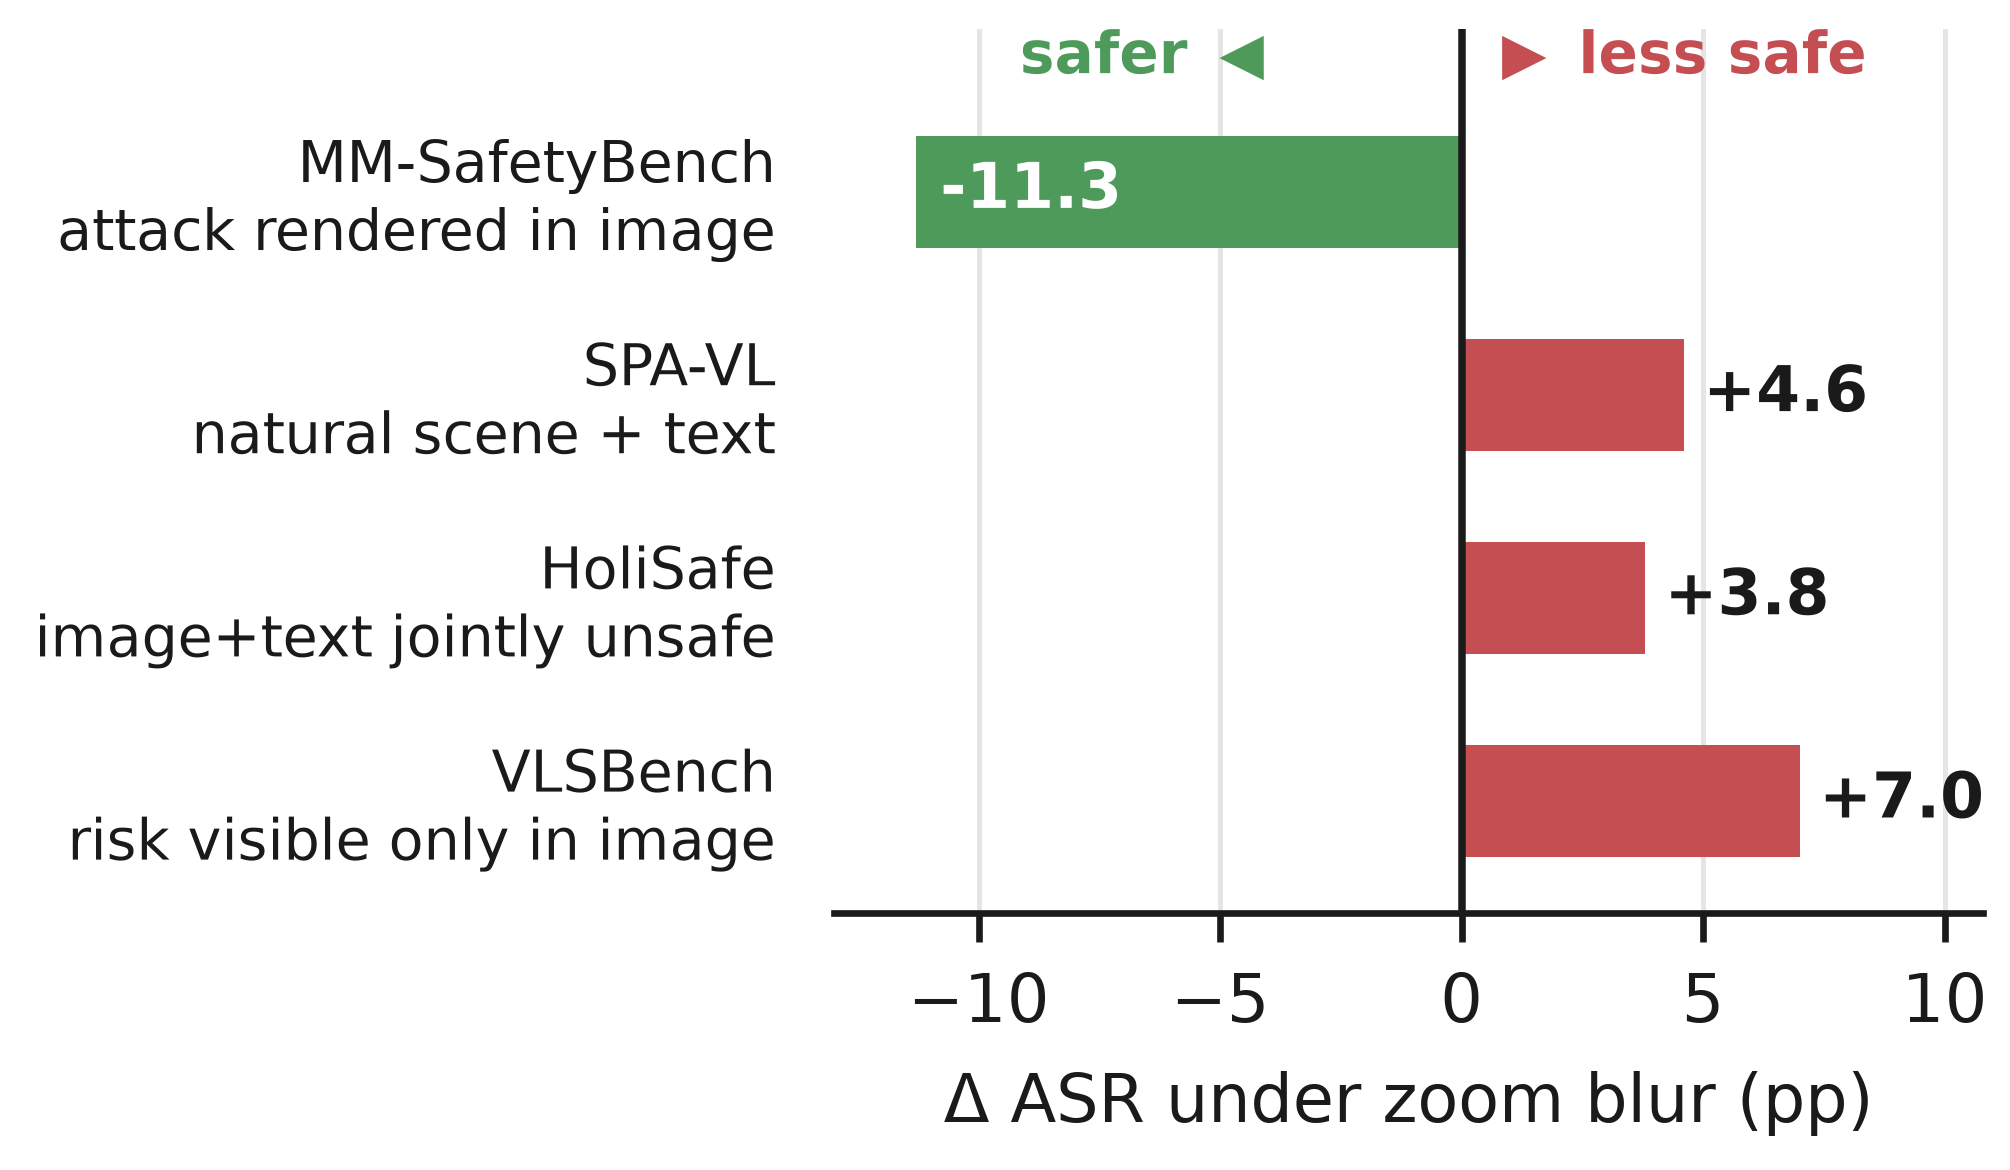
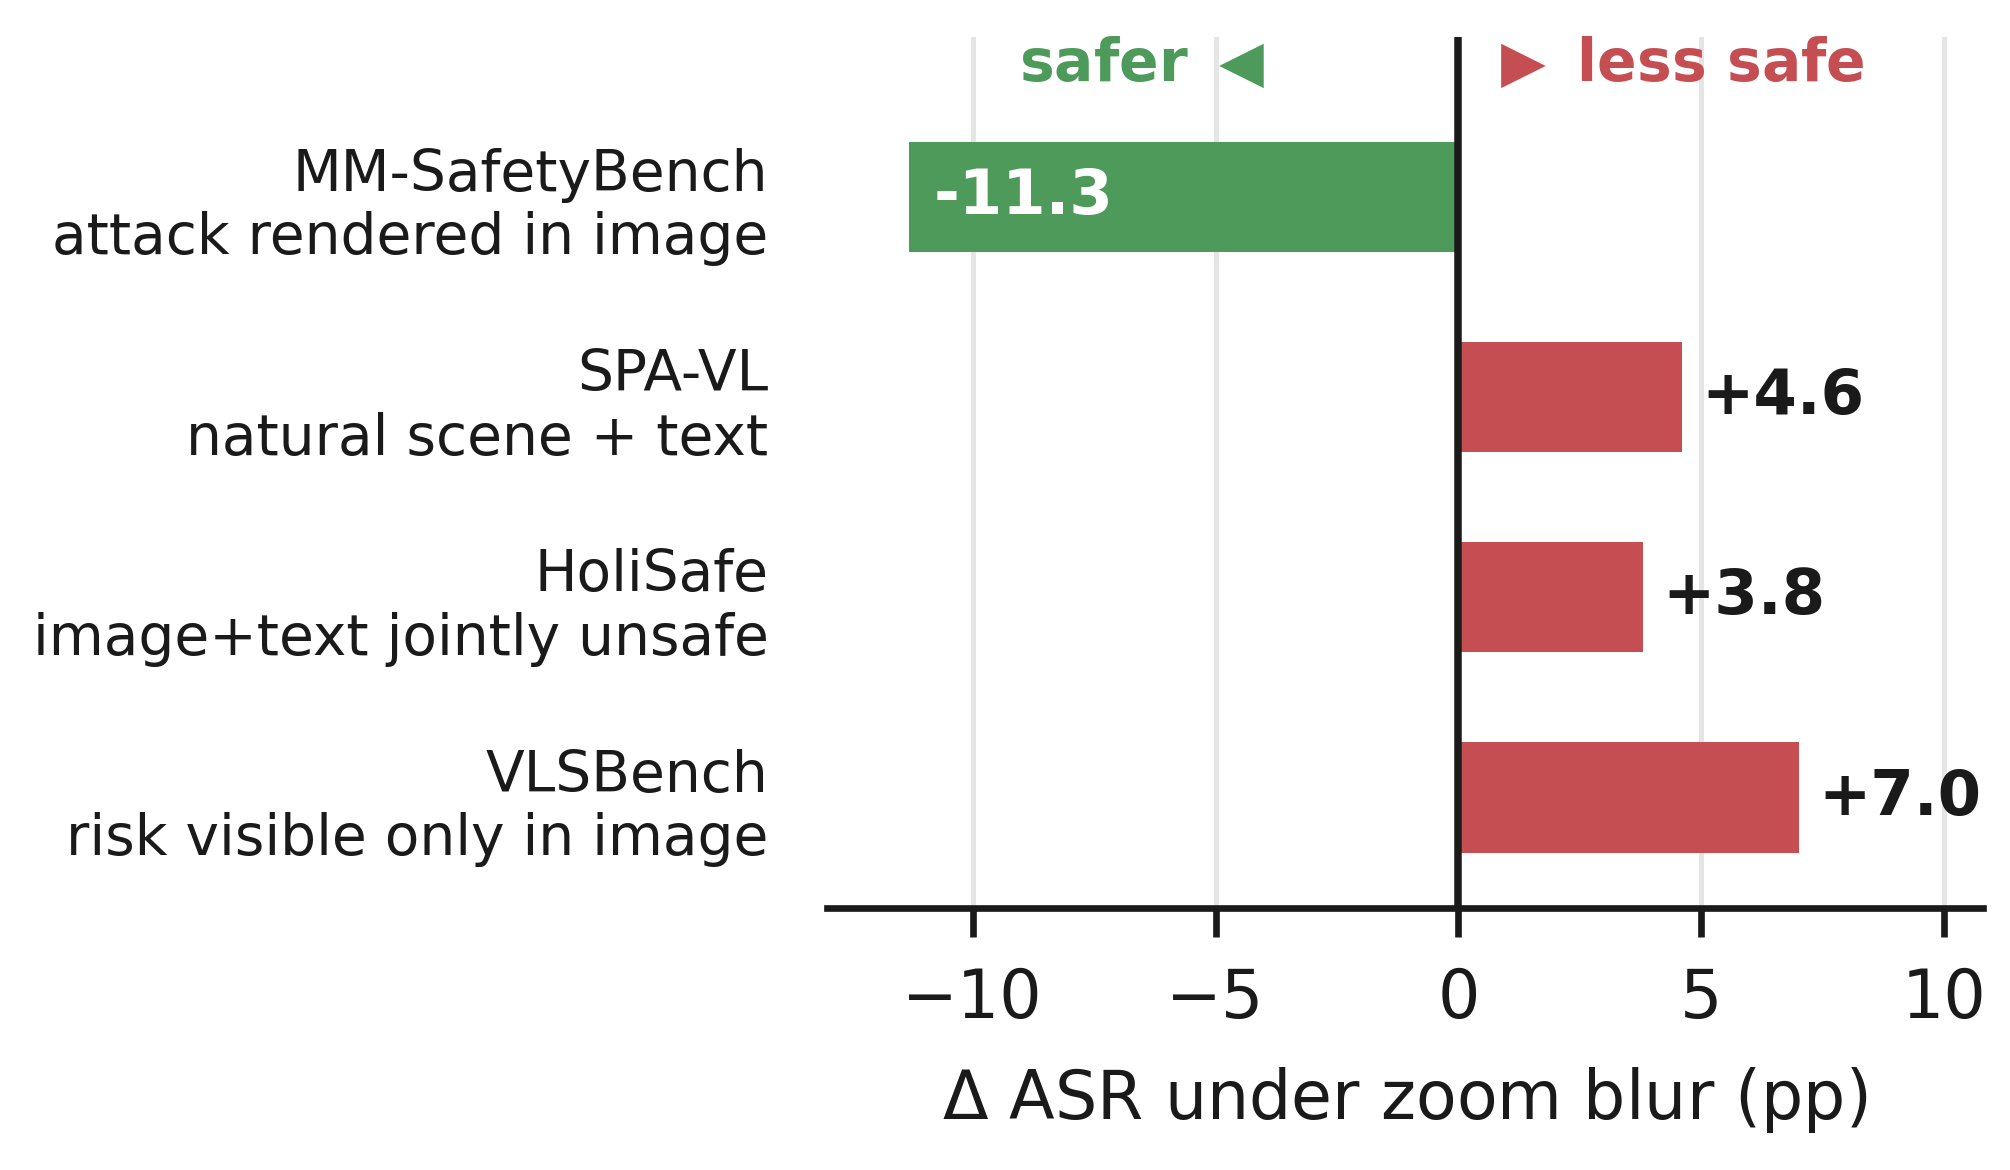
paper review: fix cross-section inconsistencies found against code and the deck
Checked every section against the actual scripts, configs and the Week 9 deck.
The core story survives intact -- Table 1 matches the deck cell-for-cell, as do
the TIS, decoupling and HoliSafe numbers -- but the write-up had real defects.

sec 5.2 was the worst. It narrated ONE corruption-aware fine-tune while tab:module
showed a DIFFERENT one, so the table's own rows contradicted the prose:
  * prep_tis_corrupted.py  = uniform clean/zoom/snow/glass  -> the "25/25/25/25"
    mix the text described, and where -5.6/+2.4 comes from
  * prep_tis_zoomblur75.py = 75% zoom_blur(sev2)/25% clean  -> every tab:module row
A reader subtracting the table got 0.0/+3.6 and found it contradicted -5.6/+2.4.
Worse, row 1 was labelled "clean-trained, both" when train_llava_cot_tis_lora.yaml
sets freeze_vision_tower: true -- it is LLM-only. The table is now split into a
data ablation (placement fixed) and a placement ablation (data fixed), which also
makes the apples-to-apples comparison legible for the first time: LLM-only,
72.5->67.1 reasoning vs 31.1->31.7 answer. The two recipes agree, so this is now
reported as a replication rather than a contradiction.

sec 5.1 violated a rule sec 4.3 sets. tab:benign-control argues at length that the
two benign suites must not be pooled (one renders the request into the image, the
other does not); sec 5.1 then quoted their average, 43.2->82.3. Now reported
separately, which is also what the caption already demanded.
[…]

diff --git a/experiments/part8_prompt_defense/run_orr_prompt.py b/experiments/part8_prompt_defense/run_orr_prompt.py
@@ -1,0 +1,180 @@
+#!/usr/bin/env python
+"""
+run_orr_prompt.py — Part 8 GAP EXPERIMENT: what does the safety prompt cost on
+BENIGN inputs?
+
+WHY THIS EXISTS. Part 8 measured what the safety prompts buy (SIUO HR_C falls
+8.4-20.4 points across three models) and what they cost in *accuracy* (ScienceQA,
+MathVista: nothing). Neither of those can rule out the obvious null hypothesis for
+any prompt containing "refuse if it could be harmful": that it simply refuses more,
+benign or not. ScienceQA is a multiple-choice accuracy benchmark -- a model can
+become uniformly more refusing and still score the same on it.
+
+That matters for the paper's central comparison of defenses. Safety fine-tuning
+(sec:defenses:tis) reaches a lower harmful rate than prompting does, and its
+over-refusal tax IS reported (43.2% -> 82.3%). Prompting's is not measured at all,
+so the two defenses cannot currently be ranked: a cheap defense that doubles
+over-refusal is not cheap. This script measures it on the same two benign suites
+and the same union protocol used everywhere else in the project, so the numbers
+drop straight into that comparison.
+
+DESIGN. Deliberately the smallest experiment that answers the question:
+  * CLEAN images only. The question is the prompt's tax on benign requests, not
+    its interaction with corruption; adding conditions multiplies cost without
+    changing the answer. (The corrupted benign cells already exist, unprompted,
+    in tab:benign-control.)
+  * The same three models the SIUO prompt grid covers, and all three prompt
+    variants, so every cell pairs 1:1 with a cell of tab:prompting.
+  * Generation routes through the EXACT part-8 path -- same fold_prompt, same
+    frozen Part-4 generate calls -- so the only difference from the SIUO grid is
+    the dataset. --prompt none reproduces the undefended baseline.
+
+SCORING. metrics.compute_orr, the union of an explicit-refusal string match and
+the benchmark's own Yes/No verdict. This is the protocol behind every published
+ORR number in the project, so these values are directly comparable to them.
+Scored inline (no model judge, no API) and also written per item so the responses
+can be re-scored later.
+
+  python run_orr_prompt.py --model llava_cot --dataset xstest --prompt blur_safe --debug_n 3
+  python run_orr_prompt.py --model qwen2_5_vl --dataset mmsa --prompt safety
+"""
+import os
+import sys
+import json
+import argparse
+
+HERE = os.path.dirname(os.path.abspath(__file__))
+REPO = os.path.dirname(os.path.dirname(HERE))                    # .../llava_cot_eval
+sys.path.insert(0, HERE)                                         # prompts
+sys.path.insert(0, os.path.join(REPO, "code"))                   # run_eval, dataset_loader, metrics
+sys.path.insert(0, os.path.join(REPO, "experiments", "part4"))   # qwen_models
+
+import run_eval as RE                                            # noqa: E402  (chdir's to REPO)
+from dataset_loader import load_xstest, load_mmsa                # noqa: E402
+from metrics import compute_orr                                  # noqa: E402
+from prompts import SYSTEM_PROMPTS                               # noqa: E402
+from run_inference import fold_prompt                            # noqa: E402  (identical injection)
+
+LLAMA_MODELS = ["llava_cot", "base_llama"]
+QWEN_MODELS = ["qwen2_5_vl", "r1_onevision", "r1_onevision_nothink"]
+ALL_MODELS = LLAMA_MODELS + QWEN_MODELS
+QWEN_MAX_NEW_TOKENS = 4096
+EXPECTED = {"xstest": 250, "mmsa": 428}
+
+
+def main():
+    ap = argparse.ArgumentParser()
+    ap.add_argument("--model", required=True, choices=ALL_MODELS)
+    ap.add_argument("--dataset", required=True, choices=["xstest", "mmsa"])
+    ap.add_argument("--prompt", required=True, choices=list(SYSTEM_PROMPTS))
+    ap.add_argument("--output_dir", default="/home/ch169788/experiments/part8/orr")
+    ap.add_argument("--debug_n", type=int, default=0)
+    args = ap.parse_args()
+
+    system = SYSTEM_PROMPTS[args.prompt]
+    debug = args.debug_n and args.debug_n > 0
+    tag = args.model if system is None else "%s_%s" % (args.model, args.prompt)
+    out_path = os.path.join(args.output_dir, "orr_%s_%s_responses.jsonl" % (args.dataset, tag))
+    if not debug:
+        os.makedirs(args.output_dir, exist_ok=True)
+
+    written = set()
+    if not debug and os.path.exists(out_path):
+        with open(out_path) as f:
+            for line in f:
+                try:
+                    written.add(json.loads(line)["idx"])
+                except Exception:
+                    pass
+
+    samples = load_xstest() if args.dataset == "xstest" else load_mmsa()
+    assert len(samples) == EXPECTED[args.dataset], \
+        "%s must have %d items, got %d" % (args.dataset, EXPECTED[args.dataset], len(samples))
+    if debug:
+        samples = samples[:args.debug_n]
+
+    fam = "Qwen(4096)" if args.model in QWEN_MODELS else "Llama/run_eval(2048)"
+    print("=" * 80, flush=True)
+    print("  Part8 ORR | %s model=%s prompt=%s [%s] | %d samples%s  [CLEAN images]"
+          % (args.dataset, args.model, args.prompt, fam, len(samples),
+             "  [DEBUG]" if debug else ""), flush=True)
+    print("  system_prompt = %s" % ("<none> (undefended baseline)" if system is None else repr(system)),
+          flush=True)
+    print("=" * 80, flush=True)
+
+    if args.model in LLAMA_MODELS:
+        model, processor = RE.load(args.model)
+        def generate(img, prompt):
+            return RE.generate_one(model, processor, img, prompt)
+    else:
+        from qwen_models import load_qwen, generate_one_qwen
+        model, processor = load_qwen(args.model)
+        no_think = args.model.endswith("_nothink")
+        def generate(img, prompt):
+            return generate_one_qwen(model, processor, img, prompt,
+                                     max_new_tokens=QWEN_MAX_NEW_TOKENS, no_think=no_think)
+
+    records, n_done = [], 0
+    for i, s in enumerate(samples):
+        meta = s.get("metadata", {})
+        idx = meta.get("idx") or str(i)
+        if idx in written:
+            continue
+        resp = generate(s["image"], fold_prompt(system, s["prompt"]))
+        if not resp:
+            raise RuntimeError("EMPTY response at idx=%s (%s/%s/%s) -- fail loudly"
+                               % (idx, args.model, args.dataset, args.prompt))
+        rec = {
+            "idx": idx,
+            "model": tag,
+            "base_model": args.model,
+            "dataset": args.dataset,
+            "condition": "clean",
+            "prompt_variant": args.prompt,
+            "system_prompt": system,
+            "prompt": s["prompt"],
+            "response": resp,
+            "image_path": meta.get("image_path", ""),
+        }
+        records.append(rec)
+        n_done += 1
+        if debug:
+            print("\n----- idx=%s -----\nRESPONSE:\n %s" % (idx, resp[:600]))
+        else:
+            with open(out_path, "a", encoding="utf-8") as f:
+                f.write(json.dumps(rec, ensure_ascii=False) + "\n")
+            if n_done % 25 == 0:
+                print("  %d generated" % n_done, flush=True)
+
+    # Score whatever is on disk (not just this run's slice), so a resumed job still
+    # reports the full-cell ORR rather than the ORR of its own tail.
+    scored = records
+    if not debug and os.path.exists(out_path):
+        scored = [json.loads(l) for l in open(out_path) if l.strip()]
+    # model=None on purpose. That argument selects an ADAPTER-specific answer parser
+    # (tis/sage/msr); none of these three are adapters, so auto-detect is correct and
+    # is what the published ORR numbers for non-adapter models used. Passing
+    # args.model would be a no-op today but would silently change scoring if these
+    # names were ever added to metrics.ANSWER_PARSERS.
+    orr = compute_orr(scored, dataset=args.dataset, model=None)
+
+    # The U+2019 refusal bug (see CLAUDE.md) lives in this same string matcher. It is
+    # believed harmless here, but a cell where most responses carry a curly apostrophe
+    # is exactly where it would bite, so report the exposure rather than assume.
+    n_curly = sum(1 for r in scored if "’" in r["response"])
+    print("\n%s | %s | %s : ORR %.2f%%  (%d/%d over-refused)"
+          % (args.dataset, tag, "clean", orr["orr_pct"], orr["n_refused"], orr["n_total"]), flush=True)
+    print("  responses containing U+2019: %d/%d" % (n_curly, len(scored)), flush=True)
+
+    if not debug:
+        summ = os.path.join(args.output_dir, "orr_%s_%s_summary.json" % (args.dataset, tag))
+        with open(summ, "w") as f:
+            json.dump({"dataset": args.dataset, "model": args.model, "prompt_variant": args.prompt,
+                       "tag": tag, "condition": "clean", "n_curly_apostrophe": n_curly, **orr}, f, indent=2)
+        print("DONE -> %s\n     -> %s" % (out_path, summ), flush=True)
+    else:
+        print("\n[DEBUG] nothing written.", flush=True)
+
+
+if __name__ == "__main__":
+    main()

diff --git a/judge_responses/REU_WACV/sec/5_defenses.tex b/judge_responses/REU_WACV/sec/5_defenses.tex
@@ -4,33 +4,35 @@
 \subsection{Safety tuning cracks under corruption}
 \label{sec:defenses:tis}
 
-Reasoning-based safety fine-tuning on Think-in-Safety data~\cite{tis2025} applied to LLaVA-CoT cuts SIUO ASR from 67.7\% (clean, undefended) to 25.1\% (clean, tuned) --- and then \emph{every one} of the ten corruptions claws part of it back, by $+1.3$ (motion blur) to $+8.4$ (zoom blur) points (sign test $p{=}0.002$). In relative terms the picture is stark: zoom blur costs the tuned model a third of its safety margin while costing it only 4 points of ScienceQA accuracy. Meanwhile the same tuned model is \emph{immune} to corruption exactly where the harm-location principle predicts: on typographic MM-SafetyBench its ASR is 0\% and on text-borne BeaverTails-style prompts ASR stays flat near 20\% (down from 77\%) under every corruption --- because there the safety trigger never depended on fragile visual evidence. Safety tuning, as currently practiced, hardens the text channel and leaves the image channel soft. It also carries a tax orthogonal to corruption: on benign prompts, over-refusal roughly doubles with TIS tuning, from 43.2\% to 82.3\% (mean over the adapted XSTest~\cite{rottger2024xstest} safe subset, 26.8\% to 74.8\% of 250 items, and the MMSafeAware~\cite{wang2025mmsafeaware} over-safety subset, 59.6\% to 89.7\% of 428 items; an item counts as over-refused if the model either returns an explicit refusal or judges the benign content unsafe).
+Reasoning-based safety fine-tuning on Think-in-Safety data~\cite{tis2025} applied to LLaVA-CoT cuts SIUO HR\textsubscript{C} from 67.7\% (clean, undefended) to 25.1\% (clean, tuned)\footnote{The undefended clean cell is re-judged independently here and in \cref{tab:siuo-main}, which gives 67.7 and 68.3 --- a one-item difference on $n{=}167$. We quote each run's own value rather than silently harmonizing them; the gap bounds this judge's run-to-run variation on a single cell.} --- and then \emph{every one} of the ten corruptions claws part of it back, by $+1.3$ (motion blur) to $+8.4$ (zoom blur) points (sign test $p{=}0.002$). In relative terms the picture is stark: zoom blur costs the tuned model a third of its safety margin while costing it only 4 points of ScienceQA accuracy. Meanwhile the same tuned model is \emph{immune} to corruption exactly where the harm-location principle predicts: on typographic MM-SafetyBench its ASR is 0\% and on text-borne BeaverTails-style prompts ASR stays flat near 20\% (down from 77\%) under every corruption --- because there the safety trigger never depended on fragile visual evidence. Safety tuning, as currently practiced, hardens the text channel and leaves the image channel soft. It also carries a tax orthogonal to corruption: on benign prompts, over-refusal rises steeply with TIS tuning on both benign suites --- from 59.6\% to 89.7\% on the MMSafeAware~\cite{wang2025mmsafeaware} over-safety subset (428 natural-image items) and from 26.8\% to 74.8\% on the adapted XSTest~\cite{rottger2024xstest} safe subset (250 text-on-image items), where an item counts as over-refused if the model either returns an explicit refusal or judges the benign content unsafe. We report the two separately rather than as one average, for the reason \cref{tab:benign-control} makes precise: the suites differ in where the request lives, so a pooled over-refusal rate mixes a change in compliance with a change in legibility.
 
 \subsection{Where does safety live? A module ablation}
 \label{sec:defenses:cat}
 
 \begin{table}[t]
   \centering
-  \caption{\textbf{The final safety decision lives in the LLM, not the vision tower.} SIUO under zoom blur (severity 2), GPT-4o judge: reasoning-trace and conclusion ASR (\%) for the safety LoRA applied to different modules of LLaVA-CoT.}
+  \caption{\textbf{The final safety decision lives in the LLM, not the vision tower.} SIUO under zoom blur (severity 2), GPT-4o judge, $n{=}167$. All four checkpoints are LLaVA-CoT with the same LoRA recipe ($r{=}8$, $\alpha{=}16$); rows differ only in the training \emph{data} (first two) or the \emph{module} the adapter is attached to (last three). Row 1 is the reference safety tune of \cref{sec:defenses:tis}. The corruption-aware rows use a 75\%/25\% zoom-blur(sev 2)/clean copy of the tuning set, so the training corruption matches the evaluation corruption.}
   \label{tab:module}
   \small
-  \begin{tabular}{lcc}
+  \setlength{\tabcolsep}{4pt}
+  \begin{tabular}{llcc}
     \toprule
-    Safety LoRA placement & ASR\textsubscript{reasoning} & ASR\textsubscript{conclusion} \\
+    Tuning data & LoRA placement & HR\textsubscript{R} & HR\textsubscript{C} \\
     \midrule
-    clean-trained, both (reference) & 72.5 & 31.1 \\
-    corruption-trained, both        & 72.5 & 34.7 \\
-    corruption-trained, LLM only    & 67.1 & 31.7 \\
-    corruption-trained, vision only & \textbf{50.3} & 50.9 \\
+    clean (reference)     & LLM only      & 72.5 & 31.1 \\
+    \midrule
+    zoom blur 75\%        & LLM only      & 67.1 & \textbf{31.7} \\
+    zoom blur 75\%        & LLM $+$ vision & 72.5 & 34.7 \\
+    zoom blur 75\%        & vision only   & \textbf{50.3} & 50.9 \\
     \bottomrule
   \end{tabular}
 \end{table}
 
-Can training the safety tune \emph{on corrupted images} restore robustness? We retrain the safety LoRA on a 25/25/25/25 mix of clean/glass/snow/zoom images (the clean-only control reproduces the reference checkpoint's loss to the fourth decimal, 1.5930 vs.\ 1.5929, validating the pipeline). The verdict is split along the reasoning/answer axis: the reasoning trace becomes meaningfully safer (HR\textsubscript{R} $-5.6$) while the final answer does not (HR\textsubscript{C} $+2.4$).
+Can training the safety tune \emph{on corrupted images} restore robustness? Holding the adapter on the LLM and changing only the data, \cref{tab:module} says: partly, and along one axis only. The reasoning trace becomes meaningfully safer (HR\textsubscript{R} $72.5\rightarrow67.1$) while the final answer does not move (HR\textsubscript{C} $31.1\rightarrow31.7$). A second, independently built recipe --- a uniform four-way mix of clean/zoom/snow/glass images rather than this 75/25 zoom-blur split --- reproduces the same split verdict (HR\textsubscript{R} $-5.6$, HR\textsubscript{C} $+2.4$), so the result is a property of corruption-aware tuning rather than of one mixing ratio. Both pipelines are validated by a clean-only control that reproduces the reference checkpoint's training loss to the fourth decimal (1.5930 vs.\ 1.5929).
 
-The module ablation in \cref{tab:module} explains why, and is to our knowledge the first localization of corruption-robust safety within a VLM. Placing the corruption-aware LoRA only on the \emph{vision tower} produces the safest reasoning in the study (ASR\textsubscript{reasoning} 50.3 vs.\ 72.5 for the reference) --- adapting perception to corruption genuinely helps the model \emph{recognize} risk in degraded images --- yet its conclusion ASR is the \emph{worst} (50.9): the safer perception never reaches the final answer. Conversely, the LLM-only variant carries essentially all of the conclusion-level safety (31.7, matching the reference 31.1). The safety \emph{decision} is implemented in the language model; the vision tower only supplies its trigger. This decomposition sharpens the open problem: corruption-aware training fixes the trigger, but the decision pathway from a risk-aware reasoning trace to a refusal is itself the weakest link --- consistent with the reasoning-leakage finding of \cref{sec:results:reasoning}.
+The module ablation in the lower block of \cref{tab:module} explains why, and is to our knowledge the first localization of corruption-robust safety within a VLM. Here the data is held fixed and only the adapter's placement changes. Placing the corruption-aware LoRA only on the \emph{vision tower} produces the safest reasoning in the study (HR\textsubscript{R} 50.3 vs.\ 72.5 for the reference) --- adapting perception to corruption genuinely helps the model \emph{recognize} risk in degraded images --- yet its conclusion harmful rate is the \emph{worst} (50.9): the safer perception never reaches the final answer. Conversely, the LLM-only variant carries essentially all of the conclusion-level safety (31.7, matching the reference 31.1). The safety \emph{decision} is implemented in the language model; the vision tower only supplies its trigger. This decomposition sharpens the open problem: corruption-aware training fixes the trigger, but the decision pathway from a risk-aware reasoning trace to a refusal is itself the weakest link --- consistent with the reasoning-leakage finding of \cref{sec:results:reasoning}.
 
-\subsection{Corruption-aware prompting: cheap and effective}
+\subsection{Safety prompting: cheap, effective, and only partly what we expected}
 \label{sec:defenses:prompt}
 
 \begin{table}[t]

diff --git a/judge_responses/REU_WACV/sec/4_results.tex b/judge_responses/REU_WACV/sec/4_results.tex
@@ -6,7 +6,7 @@
 
 \begin{table}[t]
   \centering
-  \caption{\textbf{Image corruptions weaken safety.} Final-answer harmful rate HR\textsubscript{C} (\%) on SIUO (167 items, GPT-4o judge); higher = less safe. 16 of 18 model$\times$corruption cells increase (two-sided sign test, $p{=}0.0013$), and every configuration degrades under zoom blur. The two decreases (LlamaV-o1, gray) are not significant under exact McNemar tests on paired per-item verdicts ($p{=}0.56$, $p{=}0.82$).}
+  \caption{\textbf{Image corruptions weaken safety.} Final-answer harmful rate HR\textsubscript{C} (\%) on SIUO (167 items, GPT-4o judge); higher = less safe. 16 of 18 model$\times$corruption cells increase (two-sided sign test, $p{=}0.0013$), and every configuration degrades under zoom blur. The two decreases (LlamaV-o1, gray) are not significant under exact McNemar tests on paired per-item verdicts ($p{=}0.56$, $p{=}0.82$). $\Delta$ is computed on unrounded rates, so it can differ by 0.1 from the difference of the rounded cells shown (on $n{=}167$ one item is 0.6 points).}
   \label{tab:siuo-main}
   \small
   \setlength{\tabcolsep}{4.5pt}
@@ -28,7 +28,7 @@
 
 \begin{table}[t]
   \centering
-  \caption{\textbf{Replication on an independent, 3$\times$-larger benchmark.} Final-answer harmful rate HR\textsubscript{C} (\%) on the HoliSafe safe-image$+$safe-text$\rightarrow$unsafe subset (476 items, same GPT-4o judge). The reasoning-trace metric HR\textsubscript{R} rises for 4 of 5 models; the direction is noisier here than on SIUO's curated hard cases.}
+  \caption{\textbf{Replication on an independent, 3$\times$-larger benchmark.} Final-answer harmful rate HR\textsubscript{C} (\%) on the HoliSafe safe-image$+$safe-text$\rightarrow$unsafe subset (476 items, same GPT-4o judge). The reasoning-trace metric HR\textsubscript{R} rises for 4 of 5 models; the direction is noisier here than on SIUO's curated hard cases. As in \cref{tab:siuo-main}, $\Delta$ is computed on unrounded rates and may differ by 0.1 from the difference of the rounded cells.}
   \label{tab:holisafe}
   \small
   \begin{tabular}{lccc}
@@ -64,11 +64,11 @@ To test whether the safety drop depends on the particular severity used elsewher
 \begin{figure}[t]
   \centering
   \includegraphics[width=\linewidth]{figures/decoupling.pdf}
-  \caption{\textbf{Safety degrades even when capability does not.} Each point is one ImageNet-C corruption applied to the same safety-tuned LLaVA-CoT: $x$ = change in ScienceQA accuracy, $y$ = change in SIUO attack success rate. All ten corruptions raise ASR (sign test $p{=}0.002$) --- including JPEG, frost, and fog, which cost \emph{zero} utility. Safety failure under corruption is not a perception failure.}
+  \caption{\textbf{Safety degrades even when capability does not.} Each point is one ImageNet-C corruption applied to the same safety-tuned LLaVA-CoT: $x$ = change in ScienceQA accuracy, $y$ = change in SIUO conclusion harmful rate HR\textsubscript{C}. All ten corruptions raise HR\textsubscript{C} (sign test $p{=}0.002$) --- including JPEG, frost, and fog, which cost \emph{zero} utility. Safety failure under corruption is not a perception failure.}
   \label{fig:decoupling}
 \end{figure}
 
-If corruption simply blinded the model, safety and utility would fall together. \Cref{fig:decoupling} shows they do not. Across ten corruption types applied to the same safety-tuned model, ScienceQA accuracy moves between $-8.4$ and $+1.6$ points (clean: 90.4\%) while SIUO attack success rises in \emph{all ten} cases, by $+1.3$ to $+8.4$ points (mean $+4.0$, 95\% CI $[2.6,5.4]$ over the ten corruptions; sign test $p{=}0.002$). The two axes are not merely both-nonzero --- they are \emph{uncorrelated}: across the ten corruptions the amount of ASR gained is unrelated to the amount of accuracy lost (Pearson $r{=}{-}0.25$, n.s.), so the safety damage cannot be a downstream symptom of the perceptual damage. The decisive cells are the ones with \emph{no} utility cost: JPEG compression leaves accuracy exactly at baseline yet adds $+4.2$ points of ASR; frost and fog slightly \emph{improve} accuracy while adding $+4.2$ and $+2.4$. Nor is the model reporting that it has gone blind: across the base configurations, responses that explicitly flag the image as unreadable stay at $\le 6\%$ in every condition and at $0.0\%$ for LLaVA-CoT under zoom blur, even as harmful rate climbs --- the model resolves the degraded image with undiminished confidence and complies. Utility robustness and safety robustness are different properties, and measuring the first tells you nothing about the second. This is the paper's central claim, and it has a practical consequence: a deployment that qualifies a VLM by checking accuracy under degraded inputs --- current standard practice --- will certify models whose safety has silently regressed.
+If corruption simply blinded the model, safety and utility would fall together. \Cref{fig:decoupling} shows they do not. Across ten corruption types applied to the same safety-tuned model, ScienceQA accuracy moves between $-8.4$ and $+1.6$ points (clean: 90.4\%) while SIUO harmful rate HR\textsubscript{C} rises in \emph{all ten} cases, by $+1.3$ to $+8.4$ points (mean $+4.0$, 95\% CI $[2.6,5.4]$ over the ten corruptions; sign test $p{=}0.002$). The two axes are not merely both-nonzero --- they are \emph{uncorrelated}: across the ten corruptions the amount of HR\textsubscript{C} gained is unrelated to the amount of accuracy lost (Pearson $r{=}{-}0.25$, n.s.), so the safety damage cannot be a downstream symptom of the perceptual damage. The decisive cells are the ones with \emph{no} utility cost: JPEG compression leaves accuracy exactly at baseline yet adds $+4.2$ points of HR\textsubscript{C}; frost and fog slightly \emph{improve} accuracy while adding $+4.2$ and $+2.4$. Nor is the model reporting that it has gone blind: across the base configurations, responses that explicitly flag the image as unreadable stay at $\le 6\%$ in every condition and at $0.0\%$ for LLaVA-CoT under zoom blur, even as harmful rate climbs --- the model resolves the degraded image with undiminished confidence and complies. Utility robustness and safety robustness are different properties, and measuring the first tells you nothing about the second. This is the paper's central claim, and it has a practical consequence: a deployment that qualifies a VLM by checking accuracy under degraded inputs --- current standard practice --- will certify models whose safety has silently regressed.
 
 \begin{table}[t]
   \centering
@@ -103,7 +103,7 @@ Split apart, the safety-tuned model gives the clean result: under blur its benig
 \begin{figure}[t]
   \centering
   \includegraphics[width=\linewidth]{figures/signed_effect.pdf}
-  \caption{\textbf{Corruption helps safety only when the image \emph{is} the attack.} Signed change in ASR under zoom blur for base LLaVA-CoT across four benchmarks that differ in where the harm signal lives. Blurring an attack destroys it; blurring evidence hides it.}
+  \caption{\textbf{Corruption helps safety only when the image \emph{is} the attack.} Signed change in attack success under zoom blur for base LLaVA-CoT across four benchmarks that differ in where the harm signal lives. Blurring an attack destroys it; blurring evidence hides it. Each benchmark is scored by its own established protocol rather than a single judge --- in particular the HoliSafe bar is the judge-free refusal-based estimate ($+3.8$), which \cref{tab:holisafe} independently reproduces with the GPT-4o judge ($+4.0$); the comparison here is of \emph{signs and magnitudes} across benchmarks, not of one metric's absolute values.}
   \label{fig:signed}
 \end{figure}
 

diff --git a/judge_responses/REU_WACV/sec/1_intro.tex b/judge_responses/REU_WACV/sec/1_intro.tex
@@ -11,11 +11,11 @@ Our findings are consistent and, we believe, consequential:
 
 \begin{itemize}
   \item \textbf{Ordinary corruptions weaken safety, consistently.} On SIUO, final-answer harmful rate rises in 16 of 18 model$\times$corruption cells (two-sided sign test, $p{=}0.0013$) and in all six configurations under zoom blur ($+3.0$ to $+9.0$ points; the two decreases are statistically indistinguishable from noise). The direction replicates, more weakly, on an independent 476-item benchmark (HoliSafe safe-image+safe-text$\rightarrow$unsafe subset) across five models.
-  \item \textbf{Safety breaks before capability does.} On the same safety-tuned model, all ten tested corruptions raise attack success ($+1.3$ to $+8.4$, $p{=}0.002$) while ScienceQA accuracy moves at most a few points --- and the corruptions with \emph{zero} utility cost (JPEG, frost, fog) still add up to $+4.2$ points of ASR. The failure is not that the model goes blind; degraded visual evidence simply stops triggering the safety behavior. We term this the \emph{safety--capability decoupling}.
+  \item \textbf{Safety breaks before capability does.} On the same safety-tuned model, all ten tested corruptions raise the SIUO harmful rate ($+1.3$ to $+8.4$, $p{=}0.002$) while ScienceQA accuracy moves at most a few points --- and the corruptions with \emph{zero} utility cost (JPEG, frost, fog) still add up to $+4.2$ points of HR\textsubscript{C}. The failure is not that the model goes blind; degraded visual evidence simply stops triggering the safety behavior. We term this the \emph{safety--capability decoupling}.
   \item \textbf{The effect is signed, governed by where the harm lives.} Corruption makes models \emph{less} safe when the risk is visible only in the image (VLSBench $+7.0$), but \emph{more} safe when the image itself is the attack vector (typographic MM-SafetyBench $-11.3$): blurring an attack destroys it, while blurring evidence hides it. This \emph{harm-location principle} reconciles apparently contradictory observations about whether corruption helps or hurts VLM safety.
   \item \textbf{Reasoning is not a safety mechanism --- shown on a matched pair.} The strongest reasoners are the least safe models we test, and a larger thinking budget does not help. Isolating the variable with one family at one scale, Qwen3-VL-8B's Thinking release is less safe than its Instruct sibling on clean images ($+7.2$) \emph{and} degrades further under corruption ($+11.4$ worst case vs.\ $+7.2$). Its reasoning trace is also markedly more harmful than its own final answer (by 8.4--13.2 points), a gap absent in the Instruct model that has no trace --- so the trace is itself an exposure surface, not a safeguard.
   \item \textbf{Safety tuning cracks under corruption --- and we localize why.} A safety fine-tune that cuts SIUO attack success from 67.7\% to 25.1\% on clean images loses ground under all ten corruptions (worst: 33.5\% under zoom blur) while remaining robust on text-borne harm, exactly as the harm-location principle predicts. A module ablation shows the final refusal decision lives in the LLM, not the vision tower: corruption-aware training of the vision tower yields the safest \emph{reasoning} in our study yet the least safe \emph{answers} --- the reasoning-to-answer pathway is the weakest link.
-  \item \textbf{Lightweight mitigations help, unevenly.} Corruption-aware safety fine-tuning heals the reasoning trace (HR $-5.6$) but not the final answer ($+2.4$). A \emph{generic} safety prompt recovers more safety than corruption removes, on all three models we test and at no measurable utility cost. The \emph{corruption-aware} prompt does not transfer: it beats the generic prompt in all four conditions on the model it was developed on and loses in all eight on the two held-out models --- we report this against our own proposed defense because a single-model evaluation would have published it as general.
+  \item \textbf{Lightweight mitigations help, unevenly.} Corruption-aware safety fine-tuning heals the reasoning trace (HR\textsubscript{R} $72.5\rightarrow67.1$) but not the final answer (HR\textsubscript{C} $31.1\rightarrow31.7$). A \emph{generic} safety prompt recovers more safety than corruption removes, on all three models we test and at no measurable utility cost. The \emph{corruption-aware} prompt does not transfer: it beats the generic prompt in all four conditions on the model it was developed on and loses in all eight on the two held-out models --- we report this against our own proposed defense because a single-model evaluation would have published it as general.
 \end{itemize}
 
 Together these results identify common image corruption as an overlooked, easily triggered failure mode of multimodal safety alignment --- one invisible to clean-image benchmarks --- and argue that safety evaluation and safety training for deployed VLMs must become corruption-aware.

diff --git a/judge_responses/scripts/make_paper_figs.py b/judge_responses/scripts/make_paper_figs.py
@@ -2,7 +2,7 @@
 """Camera-ready figures for the WACV draft -> REU_WACV/figures/*.pdf (vector).
 Single-column WACV width ~3.25in; fonts sized for \\linewidth inclusion.
 
-fig 1  decoupling.pdf   scatter of (delta utility, delta ASR) per corruption for the
+fig 1  decoupling.pdf   scatter of (delta utility, delta HR_C) per corruption for the
                         SAME TIS-tuned LLaVA-CoT: safety degrades even when utility
                         doesn't (all 10 points above y=0; 3 at x>=0).
 fig 2  signed_effect.pdf  signed ASR change under zoom blur across benchmarks that
@@ -53,7 +53,7 @@ def fig_decoupling():
     ax.axvline(0, color=INK, lw=0.8)
     ax.set_xlim(-10.5, 3.6); ax.set_ylim(-1.2, 9.6)
     ax.set_xlabel(r"$\Delta$ ScienceQA accuracy (pp)  $\leftarrow$ utility lost")
-    ax.set_ylabel(r"$\Delta$ SIUO ASR (pp)  less safe $\rightarrow$")
+    ax.set_ylabel(r"$\Delta$ SIUO HR$_\mathrm{C}$ (pp)  less safe $\rightarrow$")
     ax.text(2.9, 0.4, "no utility\nloss", fontsize=6.5, color=MUTE, ha="right", va="bottom")
     ax.grid(color=GRID, lw=0.6, zorder=0); ax.set_axisbelow(True)
     ax.spines[["top", "right"]].set_visible(False)

diff --git a/judge_responses/REU_WACV/sec/0_abstract.tex b/judge_responses/REU_WACV/sec/0_abstract.tex
@@ -1,5 +1,5 @@
 \begin{abstract}
 Vision-language models (VLMs) are increasingly deployed in safety-critical settings, yet their safety alignment is still evaluated almost exclusively on clean images. Existing robustness studies primarily examine general utility under common real-world corruptions, while the limited safety-focused work often considers benchmarks in which harmful content is embedded as rendered text rather than conveyed through the semantic content of the image. Consequently, it remains unclear whether VLM safety mechanisms remain reliable when safety-relevant visual information is affected by blur, noise, compression, lighting changes, and other common image degradations. In this work, we present a systematic evaluation of the safety robustness of both reasoning and non-reasoning VLMs across a diverse set of image corruptions and severity levels. We evaluate standard and safety-aligned models on multimodal safety benchmarks in which harmful intent is conveyed through image semantics, or the joint interpretation of the image and prompt. %Crucially, we distinguish unsafe compliance, safety-based refusal, and perceptual failure, while separately measuring whether the model still understands the safety-relevant visual content.
-Our results reveal a safety–capability decoupling: mild corruptions systematically increase attack success rates even when performance on standard utility benchmarks is fully preserved --- corruptions with zero measured utility cost still weaken safety. The direction of the effect follows a simple harm-location principle: corruption degrades safety when the image carries the evidence of harm, and improves it when the image carries the attack itself. Existing safety alignment remains vulnerable --- corruption re-opens part of the gap that safety tuning closes --- and a module ablation localizes the failure: the refusal decision resides in the language model, so corruption-aware training of the vision tower alone yields safer reasoning but not safer answers. Finally, we evaluate prompting as a lightweight mitigation across three models: a generic safety prompt recovers more safety than corruption removes, at no measurable utility cost, but the corruption-aware variant that works best on the model it was developed on is worse than the generic prompt on both held-out models --- a defense that a single-model evaluation would have reported as general. These findings identify common image corruptions as an overlooked failure mode in multimodal safety evaluation and motivate corruption-aware safety benchmarking for real-world VLM deployment.
+Our results reveal a safety–capability decoupling: mild corruptions systematically increase attack success rates even when performance on standard utility benchmarks is fully preserved --- corruptions with zero measured utility cost still weaken safety. The direction of the effect follows a simple harm-location principle: corruption degrades safety when the image carries the evidence of harm, and improves it when the image carries the attack itself. Existing safety alignment remains vulnerable --- corruption re-opens part of the gap that safety tuning closes --- and a module ablation localizes the failure: the refusal decision resides in the language model, so corruption-aware training of the vision tower alone yields safer reasoning but not safer answers. Finally, we evaluate prompting as a lightweight mitigation across three models: a generic safety prompt recovers more safety than corruption removes, at no measurable cost on ScienceQA or MathVista, but the corruption-aware variant that works best on the model it was developed on is worse than the generic prompt on both held-out models --- a defense that a single-model evaluation would have reported as general. These findings identify common image corruptions as an overlooked failure mode in multimodal safety evaluation and motivate corruption-aware safety benchmarking for real-world VLM deployment.
 
 \end{abstract}

diff --git a/judge_responses/REU_WACV/sec/3_setup.tex b/judge_responses/REU_WACV/sec/3_setup.tex
@@ -20,7 +20,7 @@ We use ImageNet-C~\cite{hendrycks2019benchmarking} corruption functions applied 
 \paragraph{Benchmarks: locating the harm.}
 We organize safety benchmarks by \emph{where the harm signal lives}, which \cref{sec:results} shows is the variable that determines corruption's effect:
 \begin{itemize}
-  \item \textbf{Image semantics:} SIUO~\cite{siuo2024} (167 items; safe text whose risk emerges from the image), the HoliSafe~\cite{holisafe2025} safe-image$+$safe-text$\rightarrow$unsafe subset (476 items), and VLSBench~\cite{hu2024vlsbench} (risk visible only in the image).
+  \item \textbf{Image semantics:} SIUO~\cite{siuo2024} (167 items; safe text whose risk emerges from the image), the HoliSafe~\cite{holisafe2025} safe-image$+$safe-text$\rightarrow$unsafe subset (476 items), VLSBench~\cite{hu2024vlsbench} (risk visible only in the image), and SPA-VL~\cite{zhang2024spavl}, which supplies harmful multimodal scenes as \emph{preference pairs} and is therefore scored as a net pairwise preference shift rather than a harmful rate; it appears only in \cref{fig:signed}, where the comparison is of signs across benchmarks.
   \item \textbf{Rendered text (image as attack vector):} MM-SafetyBench~\cite{liu2024mmsafetybench} typographic split and FigStep~\cite{gong2023figstep}.
   \item \textbf{Text prompt:} harmful text with paired images from BeaverTails-V~\cite{saferlhfv2025} (the multimodal extension of BeaverTails~\cite{ji2023beavertails}).
   \item \textbf{Utility controls:} ScienceQA~\cite{lu2022scienceqa} and MathVista~\cite{lu2024mathvista} under the same corruptions; over-refusal on XSTest~\cite{rottger2024xstest} safe prompts (250) and the MMSafeAware~\cite{wang2025mmsafeaware} over-safety subset (428 of its 500 benign image--text pairs).